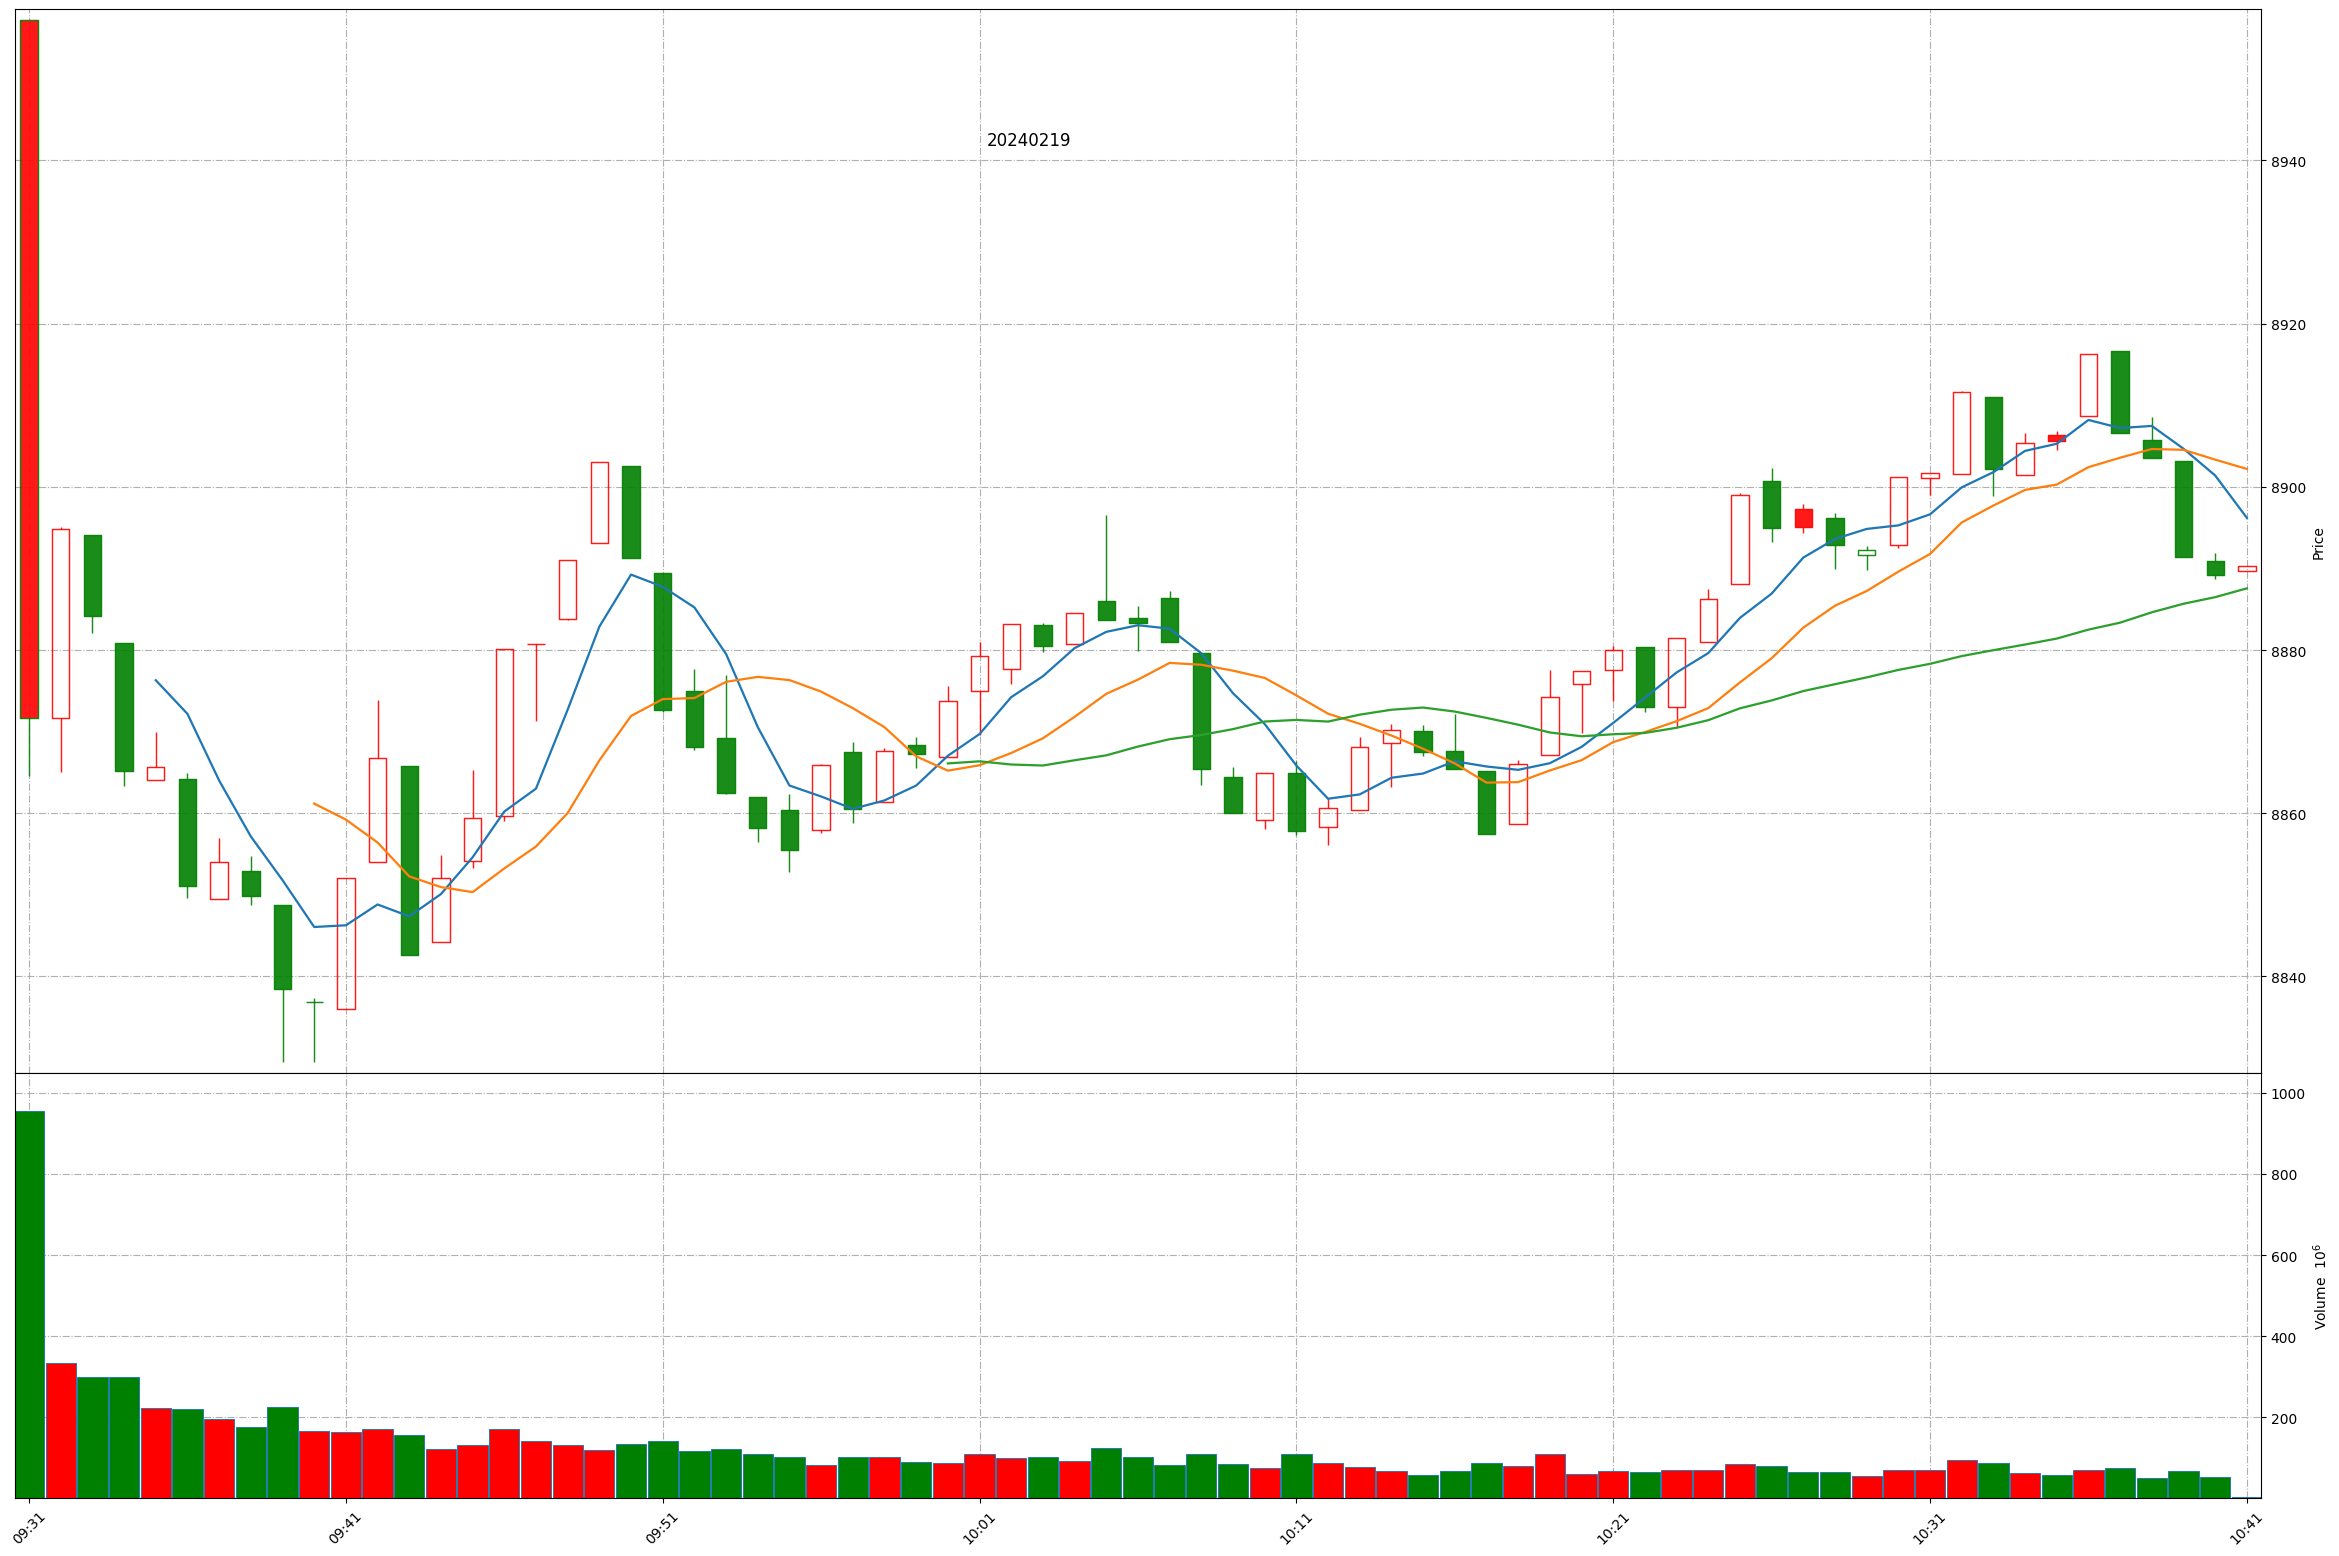
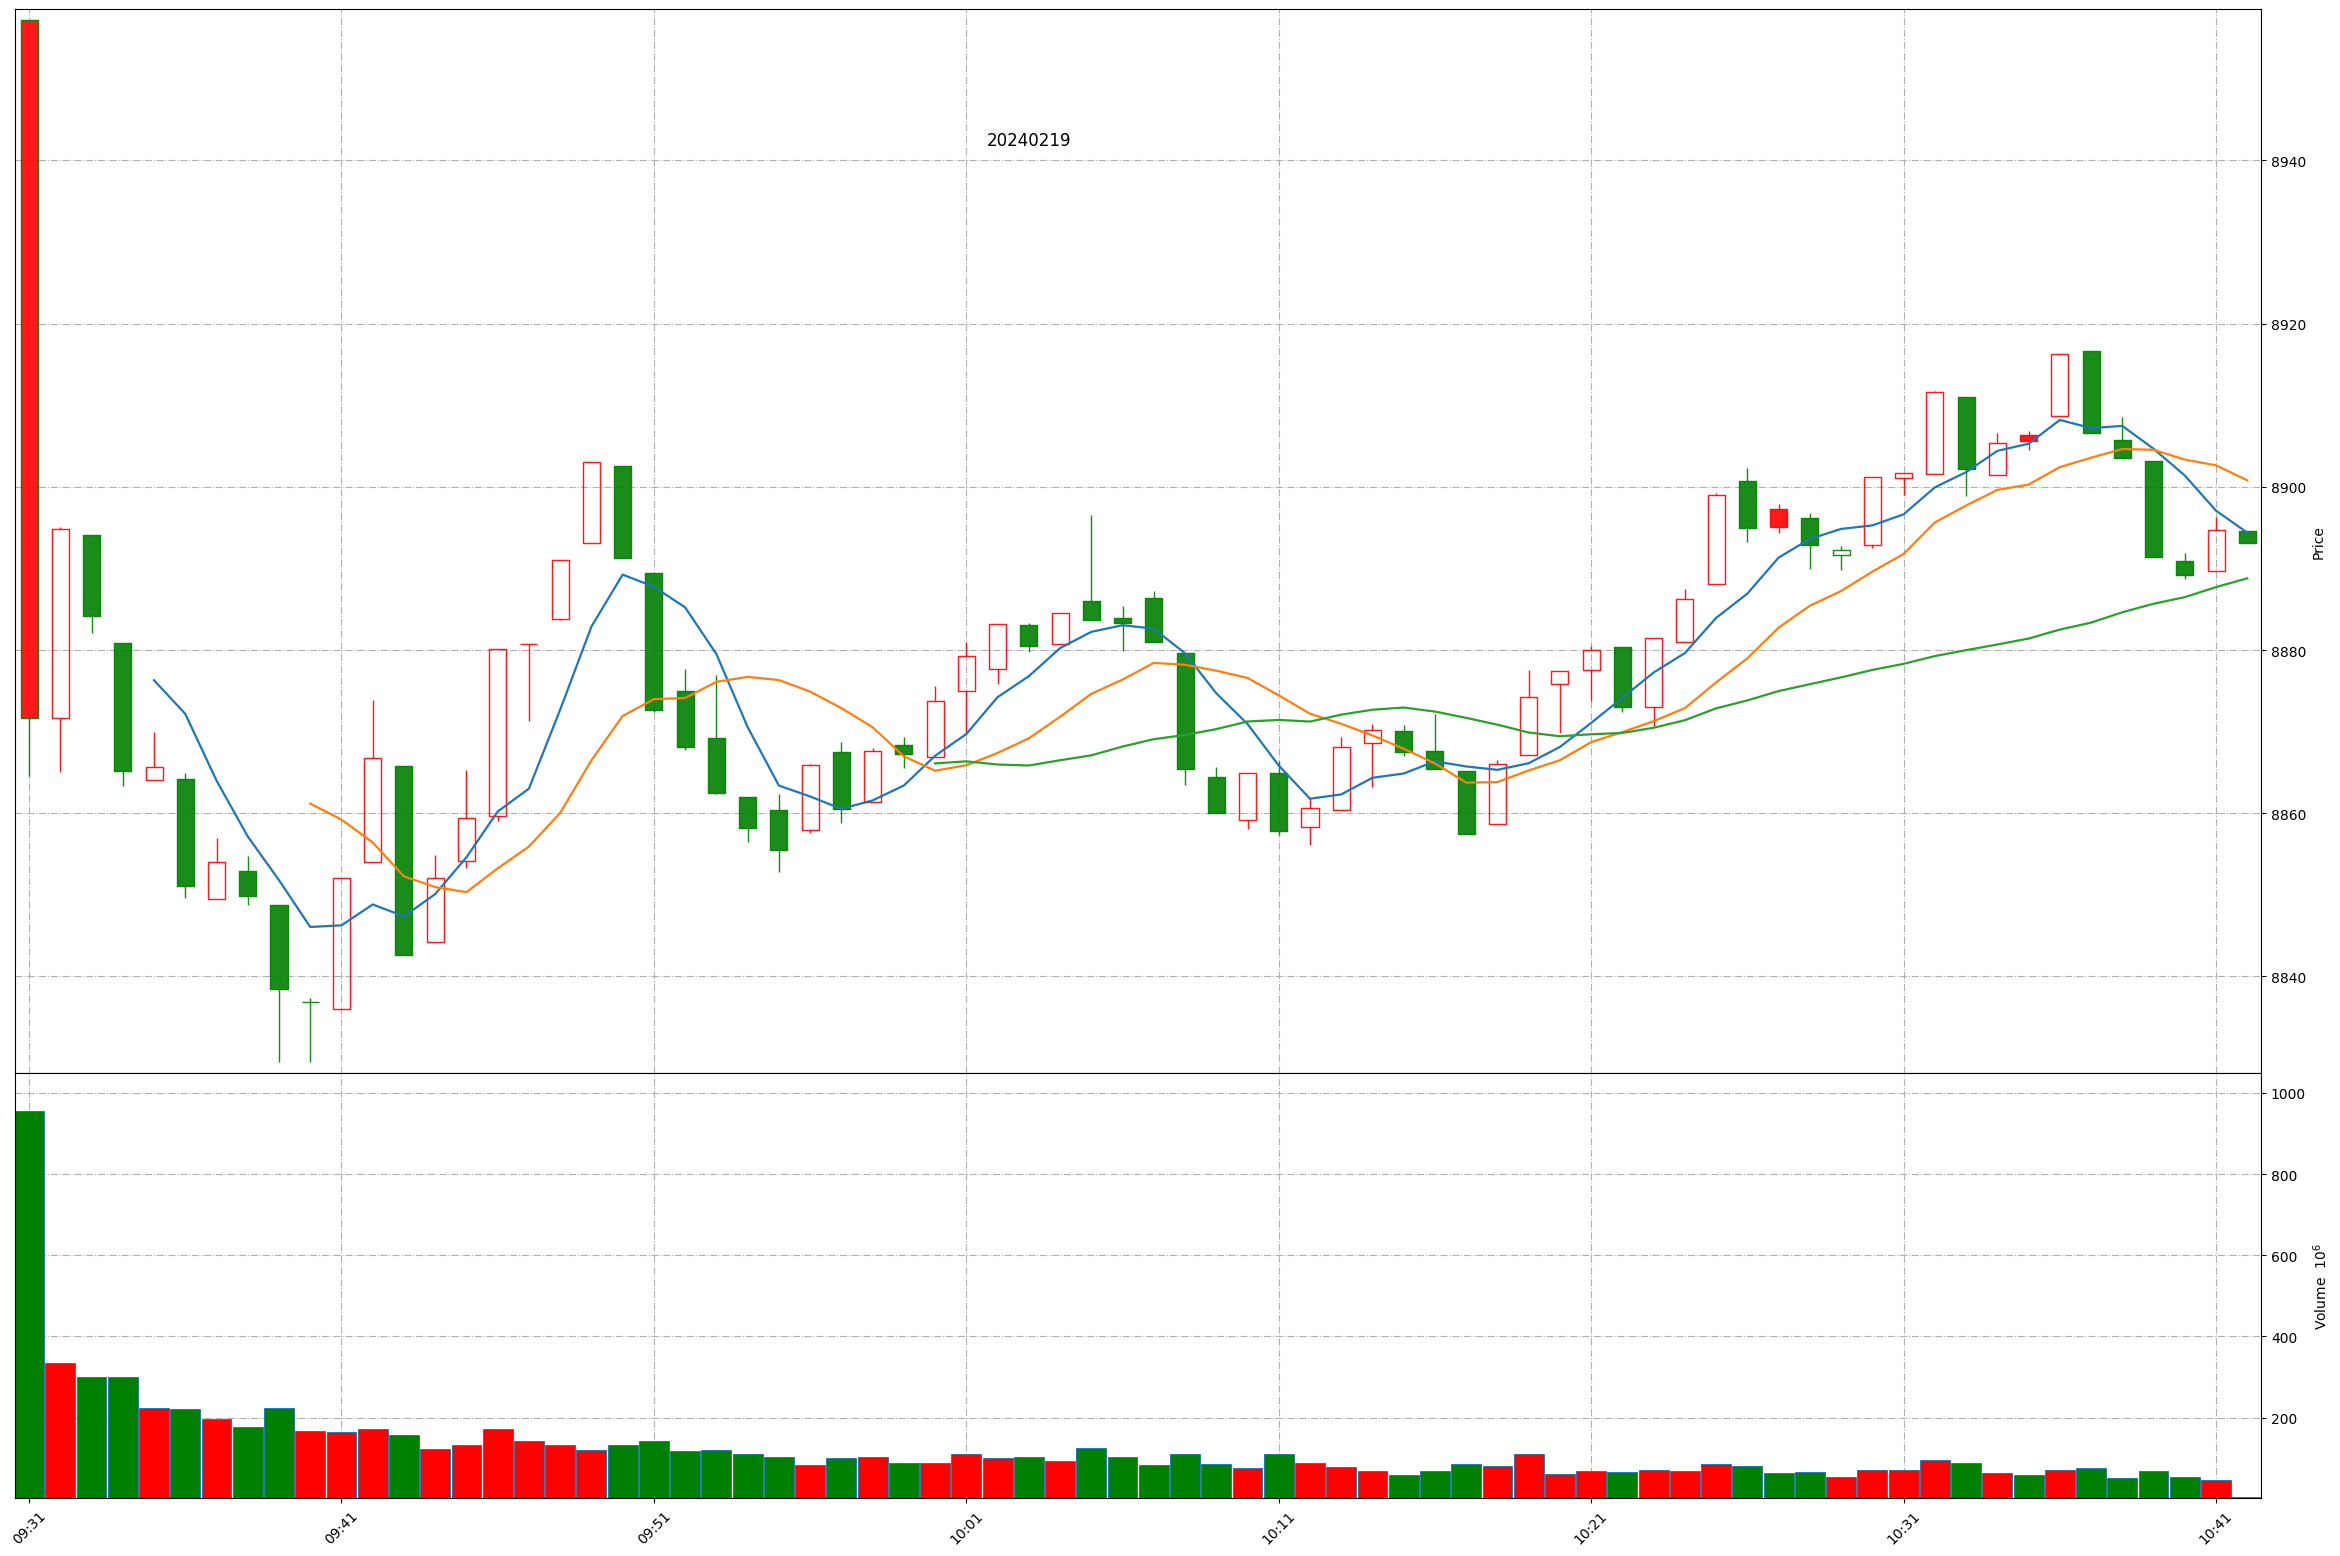
Github action update at 2024-02-19 10:41:23.

diff --git a/README.md b/README.md
@@ -1,11 +1,11 @@
 
 # Daily-A-share-market-quotes 每日 A 股指数（5min 更新）- 20240219
 
-### 上证指数 20240219 10:40
+### 上证指数 20240219 10:41
 ![](./fig/2024/2/20240219-sh000001.png)
 
-### 深证成指 20240219 10:40
+### 深证成指 20240219 10:41
 ![](./fig/2024/2/20240219-sz399001.png)
 
-### 北证50 20240219 10:40
+### 北证50 20240219 10:41
 ![](./fig/2024/2/20240219-bj899050.png)
